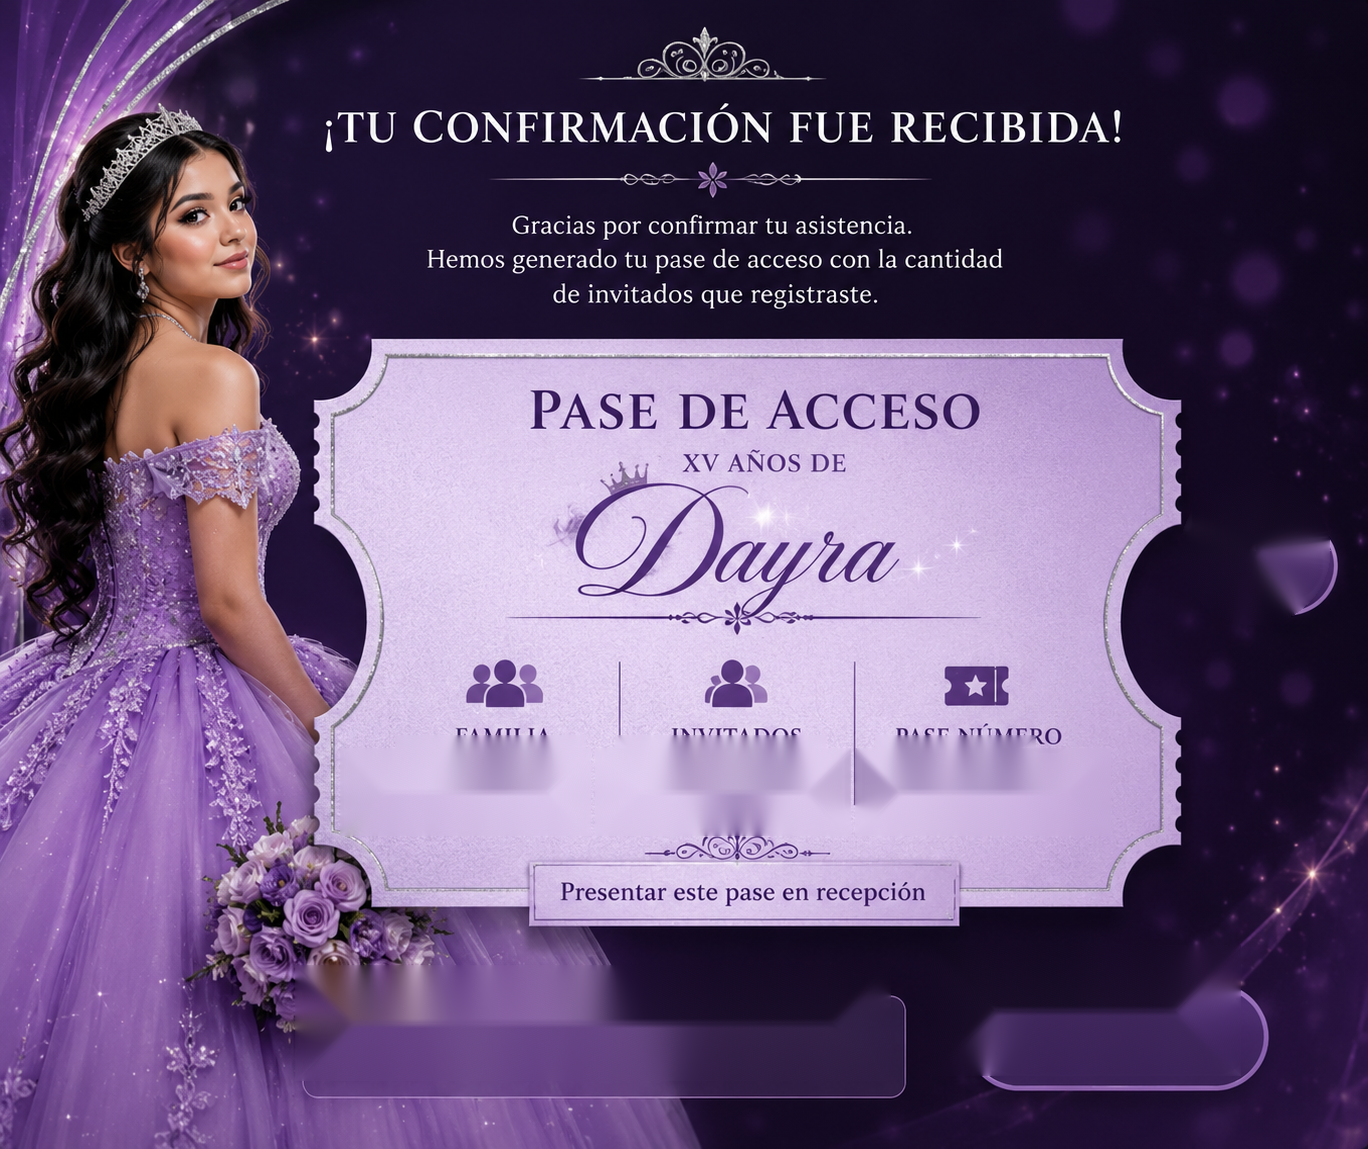
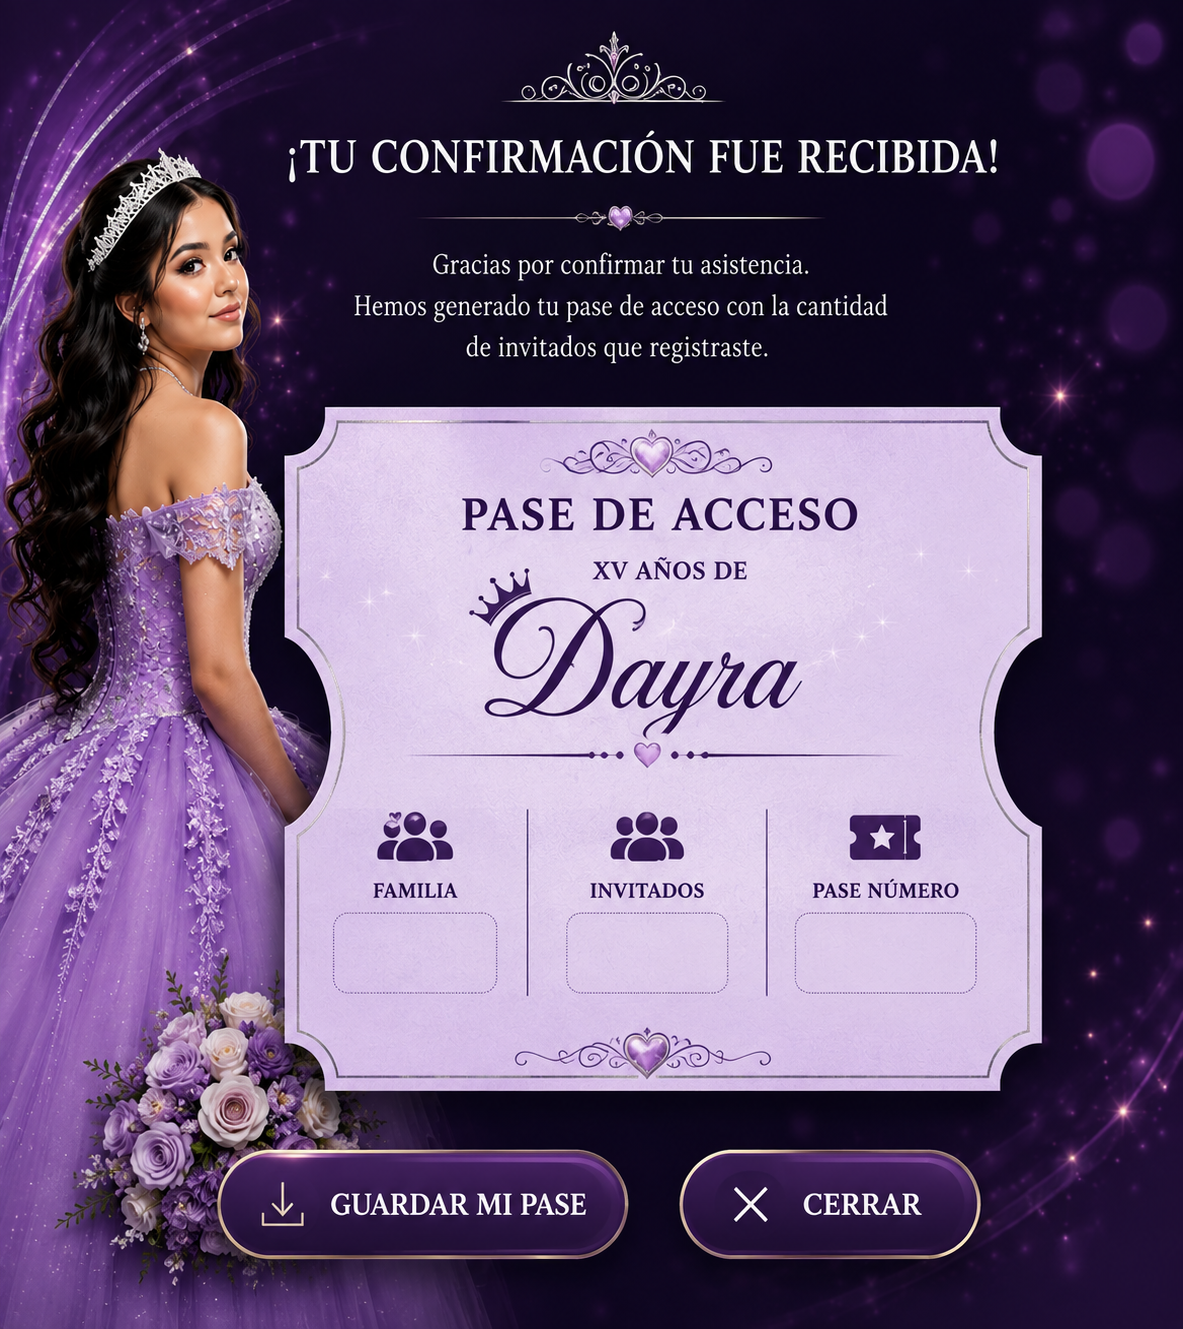
Add files via upload

diff --git a/index.html b/index.html
@@ -294,31 +294,31 @@ button.nav:active{
 }
 #slide9.active{display:flex!important}
 #passCard{
- position:relative!important;width:min(66.6666667dvh,100vw)!important;height:100dvh!important;
- aspect-ratio:2/3!important;flex:0 0 auto!important;
+ position:relative!important;width:min(100vw,153.6dvh)!important;height:min(100dvh,65.104vw)!important;
+ max-width:100vw!important;max-height:100dvh!important;aspect-ratio:3/2!important;flex:0 0 auto!important;
 }
 #passCard>img{width:100%!important;height:100%!important;display:block!important;object-fit:fill!important}
 .passValue{
  position:absolute!important;z-index:30!important;
  color:#3f1d73!important;font-family:Georgia,serif!important;
- font-style:italic!important;font-weight:700!important;
- text-align:center!important;white-space:nowrap!important;
- background:transparent!important;border:0!important;padding:0!important;
+ font-style:italic!important;font-weight:700!important;text-align:center!important;
+ white-space:nowrap!important;background:transparent!important;border:0!important;padding:0!important;
  line-height:1.05!important;
 }
-#passFamily{left:25.5%!important;top:64.9%!important;width:18.5%!important;font-size:clamp(12px,2.2vw,20px)!important}
-#passGuests{left:43.5%!important;top:64.9%!important;width:20%!important;font-size:clamp(12px,2.2vw,20px)!important}
-#passNumber{left:64%!important;top:64.9%!important;width:20%!important;font-size:clamp(12px,2.2vw,20px)!important}
+#passFamily{left:25.0%!important;top:68.6%!important;width:16.5%!important;font-size:clamp(15px,2.1vw,28px)!important}
+#passGuests{left:41.8%!important;top:68.6%!important;width:17.5%!important;font-size:clamp(15px,2.1vw,28px)!important}
+#passNumber{left:60.5%!important;top:68.6%!important;width:18%!important;font-size:clamp(15px,2.1vw,28px)!important}
+
+/* Transparent hit areas over the buttons already drawn in the image */
 #passSave,#passClose{
- position:absolute!important;z-index:40!important;bottom:3.5%!important;
- height:6.5%!important;border-radius:28px!important;
- border:2px solid #eee!important;
- background:linear-gradient(180deg,#7133a4,#4d187d)!important;
- color:#fff!important;font-family:Georgia,serif!important;font-weight:700!important;
- cursor:pointer!important;
+ position:absolute!important;z-index:50!important;
+ bottom:5.3%!important;height:10.2%!important;
+ padding:0!important;margin:0!important;border:0!important;
+ background:transparent!important;color:transparent!important;
+ font-size:0!important;cursor:pointer!important;
 }
-#passSave{left:8%!important;width:29%!important;font-size:12px!important}
-#passClose{right:8%!important;width:22%!important;font-size:13px!important}
+#passSave{left:16.2%!important;width:28.5%!important}
+#passClose{left:57.8%!important;width:22.5%!important}
 </style>
 </head>
 <body>
@@ -438,8 +438,8 @@ document.addEventListener('DOMContentLoaded',function(){
     <div id="passFamily" class="passValue">Familia</div>
     <div id="passGuests" class="passValue">0 personas</div>
     <div id="passNumber" class="passValue">#000</div>
-    <button id="passSave" type="button">💾 GUARDAR MI PASE</button>
-    <button id="passClose" type="button">CERRAR</button>
+    <button id="passSave" type="button" aria-label="Guardar mi pase"></button>
+    <button id="passClose" type="button" aria-label="Cerrar"></button>
   </div>
 </section>
 <script id="rsvp-whatsapp-final">
@@ -447,117 +447,99 @@ document.addEventListener('DOMContentLoaded',function(){
   const WA='526562661158';
   let lastData=null;
 
-  function askFamily(){
-    const v=prompt('Escribe el nombre de la familia:');
-    return v && v.trim() ? v.trim() : null;
-  }
-
-  function askGuests(){
-    const v=prompt('¿Cuántas personas asistirán?');
-    if(!v || !v.trim()) return null;
-    const n=Number(v.trim());
-    if(!Number.isInteger(n) || n<1){
+  function askData(){
+    const family=prompt('Escribe el nombre de la familia:');
+    if(!family || !family.trim()) return null;
+    let count=prompt('¿Cuántas personas asistirán?');
+    if(!count || !count.trim()) return null;
+    count=count.trim();
+    if(!/^\d+$/.test(count) || Number(count)<1){
       alert('Escribe una cantidad válida de invitados.');
       return null;
     }
-    return String(n);
+    return {family:family.trim(),count:String(Number(count))};
   }
 
   function makePassNumber(){
     return '#'+String(Math.floor(100+Math.random()*900));
   }
 
-  function sendWhatsApp(data){
-    const text =
-      '💜 CONFIRMACIÓN DE ASISTENCIA — XV AÑOS DE DAYRA 💜\n\n' +
-      'Familia: '+data.family+'\n' +
-      'Invitados: '+data.count+' '+(data.count==='1'?'persona':'personas')+'\n' +
-      'Pase número: '+data.number+'\n\n' +
-      '¡Ahí nos vemos! 💜';
-
-    const url='https://wa.me/'+WA+'?text='+encodeURIComponent(text);
-    window.open(url,'_blank');
-  }
-
-  function showPass(data){
-    lastData=data;
-    document.getElementById('passFamily').textContent=data.family;
-    document.getElementById('passGuests').textContent=
-      data.count+' '+(data.count==='1'?'persona':'personas');
-    document.getElementById('passNumber').textContent=data.number;
+  function showPass(d){
+    lastData={family:d.family,count:d.count,number:makePassNumber()};
+    document.getElementById('passFamily').textContent=lastData.family;
+    document.getElementById('passGuests').textContent=lastData.count+' '+(lastData.count==='1'?'persona':'personas');
+    document.getElementById('passNumber').textContent=lastData.number;
     window.goToSlide(8);
   }
 
   function savePass(){
     if(!lastData) return;
+
     const img=new Image();
     img.onload=function(){
-      const sx=300,sy=330,sw=850,sh=585,scale=2;
       const c=document.createElement('canvas');
-      c.width=sw*scale;c.height=sh*scale;
+      c.width=img.naturalWidth;
+      c.height=img.naturalHeight;
       const ctx=c.getContext('2d');
-      ctx.drawImage(img,sx,sy,sw,sh,0,0,c.width,c.height);
-      ctx.fillStyle='#e9dff1';
-      ctx.fillRect(110*scale,395*scale,190*scale,72*scale);
-      ctx.fillRect(310*scale,395*scale,210*scale,72*scale);
-      ctx.fillRect(555*scale,395*scale,175*scale,72*scale);
+      ctx.drawImage(img,0,0);
+
+      // Cover only the three empty data boxes on the new design.
+      ctx.fillStyle='#eee6f5';
+      ctx.fillRect(430,875,205,78);
+      ctx.fillRect(710,875,210,78);
+      ctx.fillRect(1010,875,225,78);
+
       ctx.fillStyle='#3f1d73';
       ctx.textAlign='center';
-      ctx.font='bold italic 42px Georgia';
-      ctx.fillText(lastData.family,205*scale,440*scale);
-      ctx.fillText(lastData.count+' '+(lastData.count==='1'?'persona':'personas'),415*scale,440*scale);
-      ctx.fillText(lastData.number,640*scale,440*scale);
+      ctx.textBaseline='middle';
+      ctx.font='bold italic 38px Georgia';
+
+      ctx.fillText(lastData.family,532,914);
+      ctx.fillText(
+        lastData.count+' '+(lastData.count==='1'?'persona':'personas'),
+        815,914
+      );
+      ctx.fillText(lastData.number,1122,914);
+
       c.toBlob(function(blob){
         const url=URL.createObjectURL(blob);
         const a=document.createElement('a');
         a.href=url;
-        a.download='Pase_Dayra_'+lastData.family.replace(/\s+/g,'_')+'_'+lastData.number.replace('#','')+'.png';
-        document.body.appendChild(a);a.click();a.remove();
-        setTimeout(()=>URL.revokeObjectURL(url),1500);
+        a.download='Pase_Dayra_'+
+          lastData.family.replace(/\s+/g,'_')+'_'+
+          lastData.number.replace('#','')+'.png';
+        document.body.appendChild(a);
+        a.click();
+        a.remove();
+        setTimeout(function(){URL.revokeObjectURL(url);},1500);
       },'image/png');
     };
     img.src='pase-acceso.png';
   }
 
   function yes(){
-    // EXACT ORDER:
-    // 1) family -> 2) guest count -> 3) WhatsApp -> 4) pass
-    const family=askFamily();
-    if(!family) return;
-
-    const count=askGuests();
-    if(!count) return;
-
-    const data={family:family,count:count,number:makePassNumber()};
-    lastData=data;
-
-    // Send/open the WhatsApp confirmation FIRST.
-    sendWhatsApp(data);
-
-    // Generate/show the pass only after WhatsApp is launched.
-    setTimeout(function(){ showPass(data); },350);
+    const d=askData();
+    if(d) showPass(d);
   }
 
   function no(){
-    const family=askFamily();
-    if(!family) return;
-    lastData={family:family,count:'0',number:'SIN PASE'};
-    document.getElementById('passFamily').textContent=family;
+    const family=prompt('Escribe el nombre de la familia:');
+    if(!family || !family.trim()) return;
+    lastData={family:family.trim(),count:'0',number:'SIN PASE'};
+    document.getElementById('passFamily').textContent=lastData.family;
     document.getElementById('passGuests').textContent='No asistirá';
     document.getElementById('passNumber').textContent='SIN PASE';
-    const save=document.getElementById('passSave');
-    if(save) save.style.display='none';
+    document.getElementById('passSave').style.display='none';
     window.goToSlide(8);
   }
 
   document.addEventListener('DOMContentLoaded',function(){
-    const y=document.querySelector('.yes-hit');
-    const n=document.querySelector('.no-hit');
-    const save=document.getElementById('passSave');
-    const close=document.getElementById('passClose');
+    const y=document.querySelector('.yes-hit'), n=document.querySelector('.no-hit');
     if(y) y.onclick=yes;
     if(n) n.onclick=no;
+    const save=document.getElementById('passSave'), send=document.getElementById('passSend'), close=document.getElementById('passClose');
     if(save) save.onclick=savePass;
+    if(send) send.onclick=whatsapp;
     if(close) close.onclick=function(){window.goToSlide(7);};
   });
 })();
